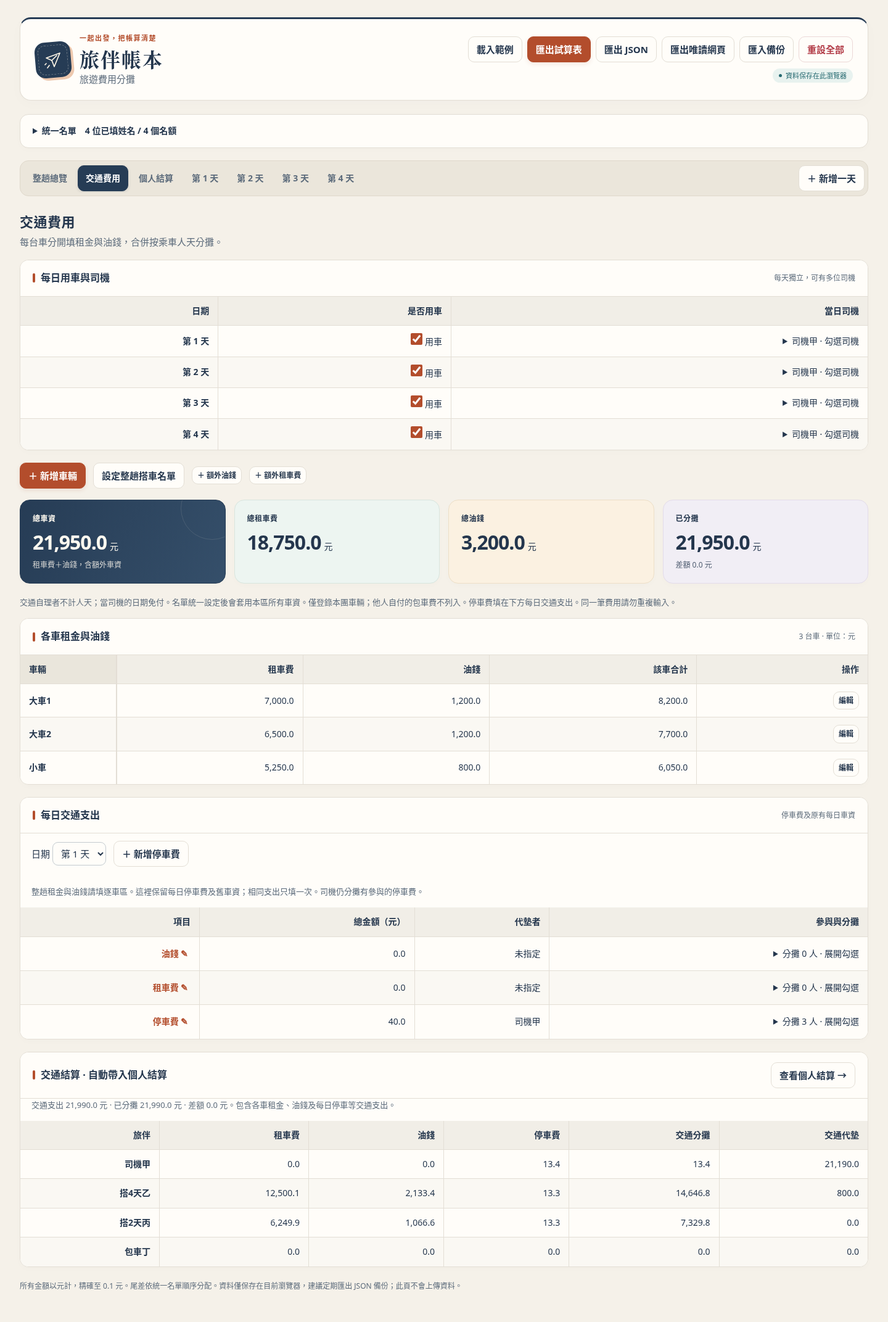
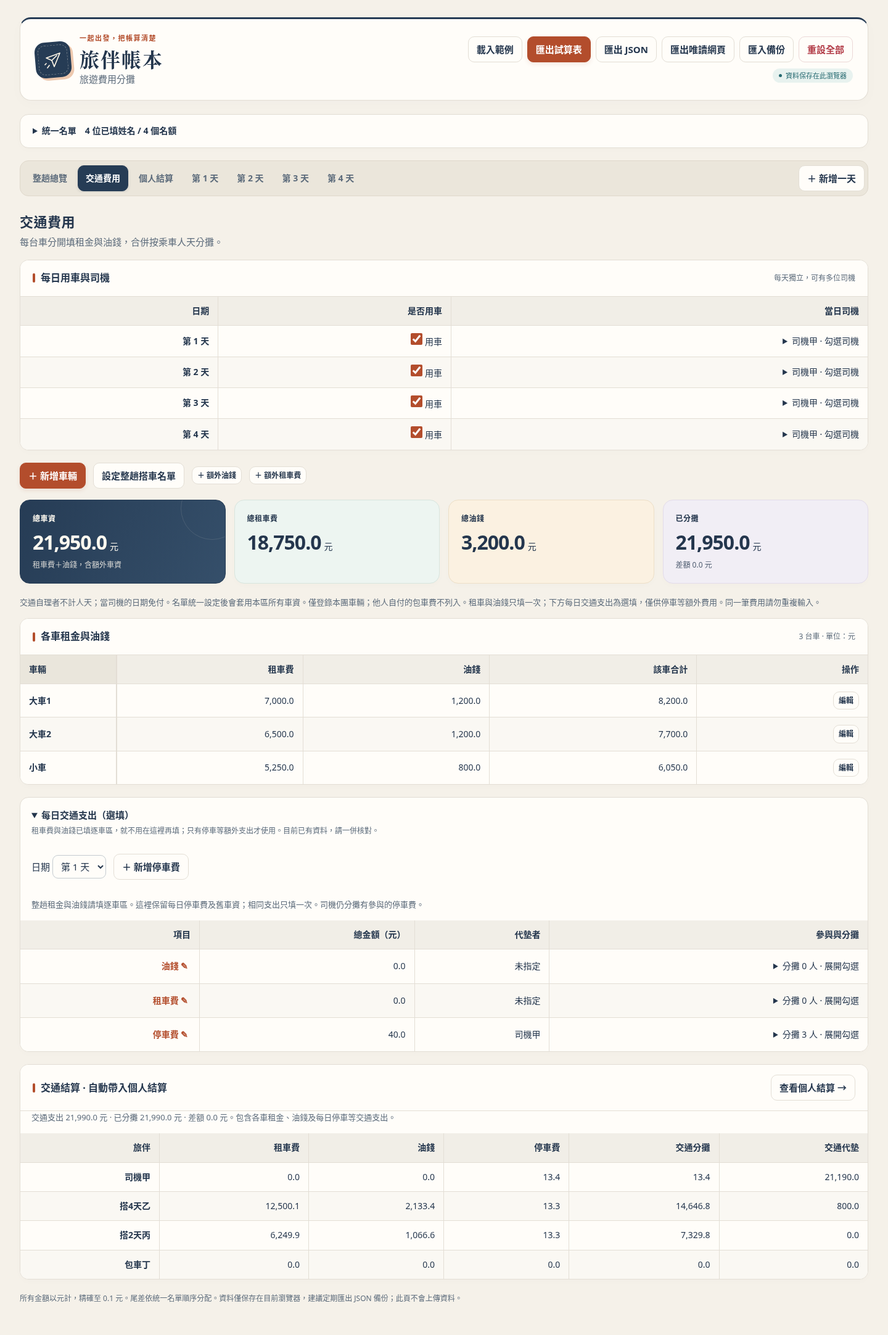
Default to 25 travelers and four days with optional daily transport costs

diff --git a/index.html b/index.html
@@ -139,6 +139,7 @@ thead .driver-cell{z-index:5;background:#eae6dc}
 .trip-day-name{display:block;max-width:130px;white-space:nowrap;overflow:hidden;text-overflow:ellipsis}
 .trip-costs-table{min-width:850px}
 .trip-costs-table td:first-child{text-align:left}
+.optional-transport>summary{padding:16px 18px;font-weight:700;cursor:pointer}.optional-transport>summary span{display:block;margin-top:4px;font-weight:400}
 .driver-choices{display:flex;flex-wrap:wrap;gap:10px 18px;margin-top:12px}.driver-choices label{display:flex;align-items:center;gap:6px}.driver-choices input{flex:none}
 .trip-empty{padding:26px 20px;background:var(--paper);border:1px dashed #c9bfae;border-radius:12px;margin-bottom:20px}
 @media(max-width:600px){.expense-dialog{width:100%;height:100dvh;max-height:100dvh;margin:0;border:0;border-radius:0}.dialog-head,.dialog-footer{padding:14px 16px}.dialog-body{padding:18px 16px}.expense-form{grid-template-columns:1fr;gap:14px}.dialog-participants{grid-template-columns:1fr}}
@@ -251,7 +252,7 @@ const TripCore = (() => {
   }
   function tripExpense(category='fuel') {return {id:id('t'),name:CATEGORIES[category],category,amount:'',payerId:null,method:'person-days',vehicleId:null,rides:[]};}
   function ledgerEntry(personId) {return {id:id('l'),personId,type:'adjustment',direction:'plus',description:'',amount:'',payerId:null};}
-  function createTrip(people=30, days=10) {
+  function createTrip(people=25, days=4) {
     if (!Number.isInteger(people) || people < 1 || people > LIMITS.members || !Number.isInteger(days) || days < 1 || days > LIMITS.days) throw new Error('人數或天數超過範圍');
     return {version:VERSION, members:Array.from({length:people},()=>({id:id('p'), name:'',excludeTransport:false})), days:Array.from({length:days},(_,i)=>day(i+1)),ledger:[],carExpenses:[],vehicles:[],transportRides:[]};
   }
@@ -864,9 +865,10 @@ globalThis.TripExport=TripExport;
     return `<section class="panel"><div class="table-caption"><h3>每日用車與司機</h3><span class="tiny muted">每天獨立，可有多位司機</span></div><div class="table-scroll"><table style="min-width:600px" aria-label="交通用車與司機"><thead><tr><th>日期</th><th>是否用車</th><th>當日司機</th></tr></thead><tbody>${state.days.map(day=>`<tr><th>${esc(day.name)}</th><td><label><input type="checkbox" id="use-car-${day.id}" data-field="use-car" data-day="${day.id}" aria-label="${esc(day.name)} 用車" ${day.useCar?'checked':''}> 用車</label></td><td><details id="drivers-${day.id}"><summary>${day.useCar?(day.drivers.filter(id=>state.members.some(m=>m.id===id&&C.isNamed(m))).map(id=>esc(memberName(state.members.find(m=>m.id===id)))) .join('、')||'尚未設定司機'):'未用車'} · ${readOnly?'查看':'勾選'}司機</summary><div class="driver-choices">${state.members.filter(C.isNamed).map(m=>`<label><input type="checkbox" id="driver-${day.id}-${m.id}" data-field="driver" data-day="${day.id}" data-person="${m.id}" aria-label="${esc(day.name)} ${esc(m.name)} 當日司機" ${day.drivers.includes(m.id)?'checked':''} ${!day.useCar?'disabled':''}>${esc(m.name)}</label>`).join('')||'<span class="muted">請先填寫統一名單。</span>'}</div></details></td></tr>`).join('')}</tbody></table></div></section>`;
   }
   function renderDailyTransport() {
-    const day=state.days.find(d=>d.id===selectedTransportDay)||state.days[0];selectedTransportDay=day.id;
+    const hasData=d=>d.expenses.some(e=>C.isTransport(e)&&(e.amount.trim()||e.payerId||e.participantIds.length));
+    const existing=state.days.some(hasData),day=state.days.find(d=>d.id===selectedTransportDay)||state.days.find(hasData)||state.days[0];selectedTransportDay=day.id;
     const fees=day.expenses.filter(C.isTransport),named=state.members.filter(C.isNamed);
-    return `<section class="panel"><div class="table-caption"><h3>每日交通支出</h3><span class="tiny muted">停車費及原有每日車資</span></div><div class="daily-tools" style="padding:12px 18px"><label>日期 <select id="transport-day" data-field="transport-day">${state.days.map(d=>`<option value="${d.id}" ${d.id===day.id?'selected':''}>${esc(d.name)}</option>`).join('')}</select></label><button type="button" data-action="add-daily-transport">＋ 新增停車費</button></div><p class="daily-note" style="padding:0 18px">整趟租金與油錢請填逐車區。這裡保留每日停車費及舊車資；相同支出只填一次。司機仍分攤有參與的停車費。</p><div class="table-scroll"><table style="min-width:700px" aria-label="每日交通費用"><thead><tr><th>項目</th><th>總金額（元）</th><th>代墊者</th><th>參與與分攤</th></tr></thead><tbody>${fees.map(e=>{const r=C.calculateExpense(state,day,e);return `<tr><th><button type="button" id="edit-${e.id}" class="text" data-action="open-daily-transport" data-day="${day.id}" data-expense="${e.id}">${esc(e.name||'未命名費用')} ✎</button>${r.issues.length?'<span class="person-index">待處理</span>':''}</th><td class="money">${r.amountValid?money(r.units):'待修正'}</td><td>${e.payerId?esc(memberName(state.members.find(m=>m.id===e.payerId))):'未指定'}</td><td><details id="traffic-parts-${e.id}"><summary>分攤 ${r.blocked?0:r.eligible.length} 人 · 展開${readOnly?'查看':'勾選'}</summary><div class="dialog-participants">${named.map(m=>`<label class="dialog-person"><input type="checkbox" id="part-${e.id}-${m.id}" data-field="participation" data-day="${day.id}" data-expense="${e.id}" data-person="${m.id}" aria-label="${esc(m.name)} 參與 ${esc(e.name)}" ${e.participantIds.includes(m.id)?'checked':''} ${m.excludeTransport?'disabled':''}><span>${esc(m.name)}${m.excludeTransport?'（交通自理）':''}</span><span class="money" data-share="${e.id}-${m.id}">${money(r.shares[m.id])}</span></label>`).join('')}</div></details></td></tr>`;}).join('')||'<tr><td colspan="4" class="empty">尚無每日交通費。</td></tr>'}</tbody></table></div></section>`;
+    return `<details class="panel optional-transport" id="daily-transport-extra" ${existing?'open':''}><summary>每日交通支出（選填）<span class="muted tiny">租車費與油錢已填逐車區，就不用在這裡再填；只有停車等額外支出才使用。${existing?'目前已有資料，請一併核對。':''}</span></summary><div class="daily-tools" style="padding:12px 18px"><label>日期 <select id="transport-day" data-field="transport-day">${state.days.map(d=>`<option value="${d.id}" ${d.id===day.id?'selected':''}>${esc(d.name)}</option>`).join('')}</select></label><button type="button" data-action="add-daily-transport">＋ 新增停車費</button></div><p class="daily-note" style="padding:0 18px">整趟租金與油錢請填逐車區。這裡保留每日停車費及舊車資；相同支出只填一次。司機仍分攤有參與的停車費。</p><div class="table-scroll"><table style="min-width:700px" aria-label="每日交通費用"><thead><tr><th>項目</th><th>總金額（元）</th><th>代墊者</th><th>參與與分攤</th></tr></thead><tbody>${fees.map(e=>{const r=C.calculateExpense(state,day,e);return `<tr><th><button type="button" id="edit-${e.id}" class="text" data-action="open-daily-transport" data-day="${day.id}" data-expense="${e.id}">${esc(e.name||'未命名費用')} ✎</button>${r.issues.length?'<span class="person-index">待處理</span>':''}</th><td class="money">${r.amountValid?money(r.units):'待修正'}</td><td>${e.payerId?esc(memberName(state.members.find(m=>m.id===e.payerId))):'未指定'}</td><td><details id="traffic-parts-${e.id}"><summary>分攤 ${r.blocked?0:r.eligible.length} 人 · 展開${readOnly?'查看':'勾選'}</summary><div class="dialog-participants">${named.map(m=>`<label class="dialog-person"><input type="checkbox" id="part-${e.id}-${m.id}" data-field="participation" data-day="${day.id}" data-expense="${e.id}" data-person="${m.id}" aria-label="${esc(m.name)} 參與 ${esc(e.name)}" ${e.participantIds.includes(m.id)?'checked':''} ${m.excludeTransport?'disabled':''}><span>${esc(m.name)}${m.excludeTransport?'（交通自理）':''}</span><span class="money" data-share="${e.id}-${m.id}">${money(r.shares[m.id])}</span></label>`).join('')}</div></details></td></tr>`;}).join('')||'<tr><td colspan="4" class="empty">尚無每日交通費。</td></tr>'}</tbody></table></div></details>`;
   }
   function renderVehicles() {
     const results=state.carExpenses.map(e=>C.calculateTripExpense(state,e)),sum=key=>results.reduce((n,r)=>n+r[key],0);
@@ -877,7 +879,7 @@ globalThis.TripExport=TripExport;
       ${renderTransportDays()}
       <div class="daily-tools"><button type="button" class="primary" data-action="add-vehicle" ${state.vehicles.length>=50||state.carExpenses.length>98?'disabled':''}>＋ 新增車輛</button><button type="button" data-action="open-ride-plan">${readOnly?'查看':'設定'}整趟搭車名單</button><button type="button" class="small" data-action="add-trip-fuel" ${state.carExpenses.length>=C.LIMITS.expenses?'disabled':''}>＋ 額外油錢</button><button type="button" class="small" data-action="add-trip-rental" ${state.carExpenses.length>=C.LIMITS.expenses?'disabled':''}>＋ 額外租車費</button></div>
       <div class="stats"><div class="stat featured"><div class="label">總車資</div><div class="value money" data-transport="total">${money(fuel+rental)}<span class="unit">元</span></div><div class="note">租車費＋油錢，含額外車資</div></div><div class="stat"><div class="label">總租車費</div><div class="value money" data-transport="rental">${money(rental)}<span class="unit">元</span></div></div><div class="stat"><div class="label">總油錢</div><div class="value money" data-transport="fuel">${money(fuel)}<span class="unit">元</span></div></div><div class="stat"><div class="label">已分攤</div><div class="value money">${money(sum('allocated'))}<span class="unit">元</span></div><div class="note">差額 ${money(sum('units')-sum('allocated'))} 元</div></div></div>
-      <p class="daily-note">交通自理者不計人天；當司機的日期免付。名單統一設定後會套用本區所有車資。僅登錄本團車輛；他人自付的包車費不列入。停車費填在下方每日交通支出。同一筆費用請勿重複輸入。</p>
+      <p class="daily-note">交通自理者不計人天；當司機的日期免付。名單統一設定後會套用本區所有車資。僅登錄本團車輛；他人自付的包車費不列入。租車與油錢只填一次；下方每日交通支出為選填，僅供停車等額外費用。同一筆費用請勿重複輸入。</p>
       <section class="panel"><div class="table-caption"><h3>各車租金與油錢</h3><span class="tiny muted">${state.vehicles.length} 台車 · 單位：元</span></div><div class="table-scroll"><table style="min-width:620px" aria-label="各車交通費用"><thead><tr><th class="name-cell corner">車輛</th><th>租車費</th><th>油錢</th><th>該車合計</th><th>操作</th></tr></thead><tbody>${vehicleRows||'<tr><td colspan="5" class="empty">按「新增車輛」逐台填寫，例如大車1、大車2、小車。</td></tr>'}</tbody></table></div></section>
       ${ungrouped.length?`<section class="panel"><div class="table-caption"><h3>其他整趟車資</h3></div><div class="table-scroll"><table class="trip-costs-table" aria-label="整趟車資費用"><thead><tr><th scope="col">費用（點選${readOnly?'查看':'編輯'}）</th><th scope="col">總金額</th><th scope="col">分攤方式</th><th scope="col">涵蓋日期</th><th scope="col">已分攤</th><th scope="col">狀態</th></tr></thead><tbody>${ungrouped.map(e=>{const r=results[state.carExpenses.indexOf(e)];return `<tr><td><button id="edit-${e.id}" type="button" class="text" data-action="open-expense" data-expense="${e.id}">${esc(e.name||'未命名費用')} ↗</button></td><td class="money">${r.amountValid?money(r.units):'待修正'}</td><td>${e.method==='person-days'?'依乘車人天':'先平均每天'}</td><td>${r.days.map(day=>esc(day.dayName||'未命名日期')).join('、')||'未選日期'}</td><td class="money">${money(r.allocated)}</td><td>${r.issues.length?'待處理 '+r.issues.length+' 項':'已核對'}</td></tr>`;}).join('')}</tbody></table></div></section>`:!state.vehicles.length?'<div class="trip-empty"><h3>還車才加油，也能整趟分攤</h3><p class="muted">新增一筆總油錢，勾選涵蓋的日期與每日乘客；多台車可合併總額，或分成多筆記錄。</p></div>':''}
       ${renderDailyTransport()}
@@ -1033,7 +1035,7 @@ globalThis.TripExport=TripExport;
       notify('已匯出唯讀網頁。可發布至 GitHub Pages 或傳送檔案；此為快照，修改後須重新匯出更新，不會即時同步。');return;
     }
     if(action==='example'||action==='reset'){
-      if(!confirm(action==='example'?'載入範例將取代目前整趟資料。建議先匯出備份，確定繼續？':'確定重設全部資料？將恢復 30 個空白名額與 10 天，無法復原；建議先匯出備份。'))return;
+      if(!confirm(action==='example'?'載入範例將取代目前整趟資料。建議先匯出備份，確定繼續？':'確定重設全部資料？將恢復 25 個空白名額與 4 天，無法復原；建議先匯出備份。'))return;
       state=action==='example'?C.example():C.createTrip();active='overview';notify(action==='example'?'已載入範例。這是示範資料，可用「重設全部」清除。':'已重設為空白旅程。');commit();return;
     }
     if(action==='add-member'){

diff --git a/tests/browser_test.py b/tests/browser_test.py
@@ -61,10 +61,16 @@ def main():
             context.route('**/*', route_request)
             page.goto(url)
             expect(page).to_have_title('旅伴帳本｜旅遊費用分攤')
-            expect(page.get_by_role('tab')).to_have_count(13)
+            expect(page.get_by_role('tab')).to_have_count(7)
             expect(page.locator('#total-expense')).to_have_text('0.0元')
-            expect(page.locator('#roster-summary')).to_contain_text('0 位已填姓名 / 30 個名額')
-            record('初始 30 人／10 天，無假支出，頁面無外部依賴')
+            expect(page.locator('#roster-summary')).to_contain_text('0 位已填姓名 / 25 個名額')
+            record('初始 25 人／4 天，無假支出，頁面無外部依賴')
+            page.locator('#tab-vehicles').click()
+            assert not page.locator('#daily-transport-extra').evaluate('(el)=>el.open')
+            page.reload()
+            assert not page.locator('#daily-transport-extra').evaluate('(el)=>el.open')
+            page.locator('#tab-overview').click()
+            record('每日交通支出預設收合且標示選填，重新整理仍無須設定；租車與油錢只填逐車區')
 
             def state():
                 return json.loads(page.evaluate('(key) => localStorage.getItem(key)', STORE))
@@ -102,6 +108,8 @@ def main():
                 cost = next(e for e in day['expenses'] if e['id'] == eid)
                 if cost['category'] in ('fuel','rental','parking'):
                     tab('vehicles')
+                    if not page.locator('#daily-transport-extra').evaluate('(el)=>el.open'):
+                        page.locator('#daily-transport-extra > summary').click()
                     if page.locator('#transport-day').input_value() != day['id']:
                         page.locator('#transport-day').select_option(day['id'])
                 else:
@@ -191,6 +199,9 @@ def main():
                 return message
 
             roster()
+            # Expand beyond the new default to retain explicit coverage of member 30.
+            for _ in range(5):
+                page.get_by_role('button',name='＋ 新增成員',exact=True).click()
             for i, name in enumerate(['阿安', '小晴', '阿哲']):
                 page.locator('[data-field="member-name"]').nth(i).fill(name)
             roster(False)
@@ -429,9 +440,9 @@ def main():
             field_day.fill('額外一天')
             expect(page.get_by_role('tab', name='額外一天', exact=True)).to_have_attribute('aria-selected', 'true')
             dialog(lambda: page.get_by_role('button', name='刪除此天', exact=True).click(), False)
-            assert len(state()['days']) == 11
+            assert len(state()['days']) == 5
             dialog(lambda: page.get_by_role('button', name='刪除此天', exact=True).click())
-            assert len(state()['days']) == 10
+            assert len(state()['days']) == 4
             record('人數與天數可增減，日期名稱同步，刪除已有資料需確認')
 
             tab('overview')
@@ -540,8 +551,8 @@ def main():
             assert len(state()['members']) == 4 and len(state()['days']) == 2
             dialog(lambda: page.get_by_role('button', name='重設全部', exact=True).click())
             expect(page.locator('#total-expense')).to_have_text('0.0元')
-            assert len(state()['members']) == 30 and len(state()['days']) == 10
-            record('載入範例有有效帳目且無待處理，重設確實恢復空白 30 人／10 天')
+            assert len(state()['members']) == 25 and len(state()['days']) == 4
+            record('載入範例有有效帳目且無待處理，重設確實恢復空白 25 人／4 天')
 
             # Whole-trip costs use ride-days; gasoline paid at return is never billed only to that day.
             roster()
@@ -788,7 +799,7 @@ def main():
             assert page.locator('#expense-dialog [data-field="category"]').count() == 0
             page.get_by_role('button',name='取消',exact=True).click()
             tab('vehicles')
-            expect(page.locator('[aria-label="交通用車與司機"] tbody tr')).to_have_count(10)
+            expect(page.locator('[aria-label="交通用車與司機"] tbody tr')).to_have_count(4)
             record('每日明細與新增費用完全沒有交通或司機欄位；每日用車、多位司機與停車費都在交通區')
             snapshot_before_other = state()
             tab(fleet_days[0])

diff --git a/tests/export_test.py b/tests/export_test.py
@@ -27,7 +27,7 @@ s=base();s.days[0].drivers=[s.members[0].id];fee(s,0,'fuel','100',[0,1,2]);add('
 s=base();s.days[0].useCar=true;fee(s,0,'fuel','100',[0,1,2]);add('missing_driver',s);
 s=base();fee(s,0,'lunch','100',[]);fee(s,0,'dinner','1.23',[0,1,2]);fee(s,0,'other','100',[0,1,2],null);add('invalid_and_missing_participants',s);
 s=base();s.members[0].name='   ';s.members[1].name='';fee(s,0,'lunch','100',[0,1,2],2);add('blank_names_excluded',s);
-s=C.createTrip();s.members[0].name='A';s.members[29].name='第30位';fee(s,0,'dinner','100',[0,29],29);add('person_30',s);
+s=C.createTrip(30,10);s.members[0].name='A';s.members[29].name='第30位';fee(s,0,'dinner','100',[0,29],29);add('person_30',s);
 s=C.example();s.members[0].name='改名後';add('rename_preserves_totals',s);
 s=base();s.members[0].name='=SUM(1,2)';s.members[1].name='小晴 & <同行者>';s.days[0].name='東京/京都:*?[]\\';s.days[1].name=s.days[0].name;s.days[0].expenses[0].name='"早餐" & 點心';fee(s,0,'breakfast','100',[0,1,2]);add('safe_text_and_sheet_names',s);
 s=base();fee(s,0,'breakfast','100',[0,1]);const e=C.expense('breakfast');Object.assign(e,{name:'加點早餐',amount:'30',participantIds:[s.members[1].id],payerId:s.members[1].id});s.days[0].expenses.push(e);add('duplicate_meals_independent',s);

diff --git a/README.md b/README.md
@@ -11,7 +11,7 @@
 ## 開始使用
 
 1. 取得專案檔案後，用瀏覽器開啟 `index.html`。若可連到 GitHub，可在專案頁按 Code → Download ZIP，解壓縮後開啟。GitHub 的檔案預覽頁不會直接執行 HTML。
-2. 展開「統一名單」填姓名。預設 30 個空白名額、10 天，可增減，初始沒有假支出。
+2. 展開「統一名單」填姓名。預設 25 個空白名額、4 天，可增減，初始沒有假支出。這是新建／重設的預設值，既有旅程的人數、天數與資料不會自動刪減。
 3. 切換每天分頁，用「新增餐費」或「新增其他費用」加入項目；沒有類別選單。點費用標題開啟獨立視窗，填名稱、總金額及代墊者，按「儲存費用」。參與者可在視窗內或表格用真正的 checkbox 勾選。
 4. 交通費用分頁逐台填租金與油錢；設定一次每日搭車名單，依乘車人天分攤。
 5. 按「**匯出試算表**」，即可下載含完整分攤結果的 `.xlsx`。
@@ -36,7 +36,7 @@ python -m http.server 8000 --bind 127.0.0.1
 
 ## 多台車，各自填租金與油錢
 
-在「**交通費用**」按「新增車輛」，逐台填名稱、實際租車費、油錢，以及兩筆費用各自的代墊者。**三台租金可以完全不同**；不需要知道每天實際用了多少油。畫面顯示各車小計、總租車費、總油錢及總車資。
+在「**交通費用**」按「新增車輛」，逐台填名稱、實際租車費、油錢，以及兩筆費用各自的代墊者。**三台租金可以完全不同**；不需要知道每天實際用了多少油。畫面顯示各車小計、總租車費、總油錢及總車資。**租車費與油錢只填整趟總額，不必逐日填錢。**每天只需在交通區勾選用車、司機與實際乘客。
 
 例如三台租金 7,000、6,500、5,250 元，油錢 1,200、1,200、800 元，總租車費為 18,750 元、總油錢 3,200 元、總車資 21,950 元。這是操作說明，初始帳本沒有這些費用。
 
@@ -48,7 +48,7 @@ python -m http.server 8000 --bind 127.0.0.1
 
 每筆費用以 **0.1 元整數**按人天比例計算，尾差依固定名單順序加 0.1 元，逐筆加總完全相等。報表另附逐日核對表；其中逐日金額是分攤結果，不代表當天實際油耗。另保留「額外油錢」「額外租車費」供補登；該視窗可比較先平均每天的算法，共用名單儲存時統一採乘車人天。
 
-**每日明細只顯示餐費及其他非交通支出**，不含用車、司機及交通欄位，也沒有類別選單。停車費在交通費用下方的「每日交通支出」新增。原有每日油錢、租金及停車費直接在交通區顯示，原 ID、日期、金額、代墊及勾選完整保留，不必重抄，也不會同時出現在每日表。司機仍正常分攤有參與的餐費、停車費與其他費用。
+**每日明細只顯示餐費及其他非交通支出**，不含用車、司機及交通欄位，也沒有類別選單。「每日交通支出（選填）」預設收合，沒其他交通支出可以完全不填；有停車費時才展開新增。若已有每日交通紀錄，會自動展開以便核對。原有每日油錢、租金及停車費直接在交通區顯示，原 ID、日期、金額、代墊及勾選完整保留，不必重抄，也不會同時出現在每日表。司機仍正常分攤有參與的餐費、停車費與其他費用。
 
 取消用車會確認並保留既有費用。涵蓋未用車日、缺司機、正金額沒有可分攤乘客時，列為待處理並暫不分攤該筆；補齊後恢復。總覽合計全部日期與整趟車資，顯示各類費用、代墊、還要付及應收回；停車費歸入其他費用。
 
@@ -115,4 +115,4 @@ python tests/browser_test.py --browser /path/to/chromium
 
 計算測試使用 Node.js 18 以上。XLSX 測試需要 Python 與 openpyxl；瀏覽器測試另需 Playwright 與 Chromium。網頁本身不需要安裝這些測試工具。
 
-實測通過 52 項計算、43 組瀏覽器情境及 21 組 XLSX 匯出；涵蓋每日餐費／其他兩個入口、無類別選單、交通與每日明細分開、個人結算只帶入一次、三車不同租金、交通自理排除、乘車人天、獨立三餐、每日司機、尾差、個人加減、代墊、收退款、保存還原、精簡固定標題、獨立編輯視窗、取消與儲存，以及 390px 手機全螢幕。詳見 [測試紀錄](TEST_RESULTS.md)。Google 帳戶內的實際匯入與共用未實測；環境政策阻擋 `file://`，瀏覽器實測使用本機 HTTP。
+實測通過 52 項計算、44 組瀏覽器情境及 21 組 XLSX 匯出；涵蓋每日餐費／其他兩個入口、無類別選單、交通與每日明細分開、個人結算只帶入一次、三車不同租金、交通自理排除、乘車人天、獨立三餐、每日司機、尾差、個人加減、代墊、收退款、保存還原、精簡固定標題、獨立編輯視窗、取消與儲存，以及 390px 手機全螢幕。詳見 [測試紀錄](TEST_RESULTS.md)。Google 帳戶內的實際匯入與共用未實測；環境政策阻擋 `file://`，瀏覽器實測使用本機 HTTP。

diff --git a/TEST_RESULTS.md b/TEST_RESULTS.md
@@ -2,13 +2,13 @@
 
 測試日期：2026-10-19（Asia/Taipei）。實際執行 HTML 內的運算引擎，並以 Chromium 154 進行瀏覽器操作；不是僅檢查程式碼或計畫。
 
-配色更新後已重跑全部 43 組瀏覽器情境，並檢視桌面、390px 手機、個人結算及寬版費用視窗的截圖。暖白／藏青／陶橘／湖水藍配色、分色卡片及紙飛機圖示均不使用 CDN 或外部字型。另以內建範例產出 [桌面預覽](docs/preview-desktop.png) 與 [手機預覽](docs/preview-mobile.png)，未放入私人帳目。另提供新功能的 [交通費用桌面預覽](docs/preview-transport.png)、[每日搭車名單](docs/preview-ride-plan.png) 與 [手機預覽](docs/preview-transport-mobile.png)，均為測試假資料。
+配色更新後已重跑全部 44 組瀏覽器情境，並檢視桌面、390px 手機、個人結算及寬版費用視窗的截圖。暖白／藏青／陶橘／湖水藍配色、分色卡片及紙飛機圖示均不使用 CDN 或外部字型。另以內建範例產出 [桌面預覽](docs/preview-desktop.png) 與 [手機預覽](docs/preview-mobile.png)，未放入私人帳目。另提供新功能的 [交通費用桌面預覽](docs/preview-transport.png)、[每日搭車名單](docs/preview-ride-plan.png) 與 [手機預覽](docs/preview-transport-mobile.png)，均為測試假資料。
 
 ## 計算與備份：52 項通過
 
 執行：`node --test tests/calculation.test.cjs`（Node.js 24）。
 
-1. 預設 30 個空白名額、10 天、每日畫面顯示三餐與其他，交通預留項目另在交通區，無假支出。
+1. 預設 25 個空白名額、4 天、每日畫面顯示三餐與其他，交通預留項目另在交通區，無假支出。
 2. 100 元由三人分攤為 33.4、33.3、33.3，總和為 100 元，尾差依名單順序。
 3. 三餐、不同日期及同類多筆費用的參與紀錄互相獨立。
 4. 第一天 A、第二天 B 為司機，當日免車資資格不跨日。
@@ -63,11 +63,11 @@
 51. 未用車或缺司機時保留交通總額與代墊、個人分攤暫零；修正後恢復。
 52. 通用餐費與其他分開彙總、司機餐費照付；version 3 備份升級至 version 4 後保留原日期與費用。
 
-## 真實瀏覽器：43 組情境通過
+## 真實瀏覽器：44 組情境通過
 
 執行：`python tests/browser_test.py --browser /usr/bin/chromium`。使用 Playwright 控制真正 Chromium，透過自動建立的本機 HTTP 伺服器開啟檔案。
 
-1. 初始畫面、30 人／10 天與零支出。
+1. 初始畫面、25 人／4 天與零支出。
 2. 實際點選 HTML checkbox 並驗證 100 元／3 人分攤。
 3. 三餐分開勾選，切換總覽立即看到正確數字。
 4. 變更司機、多位司機、缺司機提示，司機車資免付但餐費照付。
@@ -84,7 +84,7 @@
 15. 匯入可取消，還原後資料與總覽一致，重新整理仍保存。
 16. 真正下載並獨立載入唯讀 HTML；可切換日期與開啟費用視窗檢視，編輯欄位停用且無儲存按鈕，不讀寫原帳本。管理者後續修改不改變已發布快照。
 17. 重設／載入範例需確認；390px 手機視窗無整頁水平溢出，checkbox 可操作。
-18. 範例帳目有效且無待處理，重設恢復空白 30 人／10 天。
+18. 範例帳目有效且無待處理，重設恢復空白 25 人／4 天。
 19. 全程沒有 JavaScript 例外；外部網路請求全部攔截，實際請求數為零。
 20. 模擬 localStorage 被阻擋時清楚提示備份，不假稱儲存成功。
 21. 實際點選「匯出試算表」並下載 XLSX，讀回核對三餐不同參與名單、未吃零元、100 元尾差與總覽，報表不含公式或需要啟用的程式。
@@ -113,6 +113,8 @@
 42. 三車交通及停車費先獨立結算後帶入個人；餐費獨立、交通代墊只扣一次、交通自理者只付餐費，沒有重複個人紀錄。
 43. 新增餐費／其他使用獨立按鈕，不需選類別；其他支出分開帶入個人結算，刪除後恢復原帳。
 
+44. 預設 25 人／4 天；每日交通支出預設收合並明確標示選填，重新整理仍可不填。既有交通紀錄自動顯示，仍可增至第 30 人並計費。
+
 測試會在系統暫存目錄產出桌面／手機截圖、JSON、唯讀 HTML 與 `report.json`，執行結束時印出實際目錄。所有測試資料皆為示例，不會預置到正式網頁。
 
 另以瀏覽器驗證 JSON 備份檔名使用台北日期；包含 `</script>` 等特殊字元的姓名可在匯出的唯讀網頁中完整保留，不會被當成程式執行。
@@ -121,7 +123,7 @@
 
 執行：`python tests/export_test.py`。直接執行 `index.html` 的匯出程式，使用 Python zipfile 驗證 ZIP／CRC，並以 openpyxl 讀取真正的 XLSX，逐筆、逐人與運算引擎核對。
 
-1. 空白 30 人／10 天帳本。
+1. 空白 25 人／4 天帳本。
 2. 每餐、每天不同參與者及正確尾差。
 3. 交通區每日司機輪替、司機餐費照付、車資免付。
 4. 多位司機。
